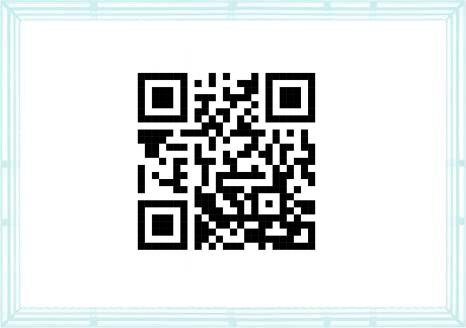
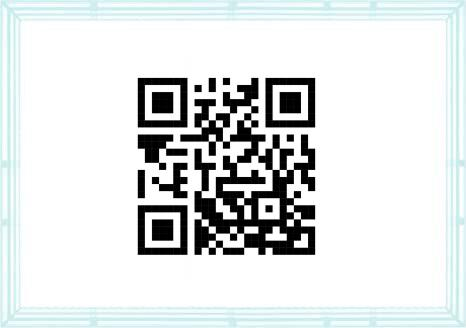
fix:座標を修正。qr画像を差し替え

Changed region(s): [[0.2704, 0.2134, 0.691, 0.7927], [0.6609, 0.4268, 0.691, 0.4573]]

diff --git a/images_join/synthetic_png.php b/images_join/synthetic_png.php
@@ -29,7 +29,7 @@ $resize_h = $src_h / ($src_w / $resize_w);
 imagecopyresampled(
     $dst_image, // コピー先の画像
     $src_image, // コピー元の画像
-    110,         // コピー先の x 座標
+    115,         // コピー先の x 座標
     45,         // コピー先の y 座標。
     0,          // コピー元の x 座標
     0,          // コピー元の y 座標
